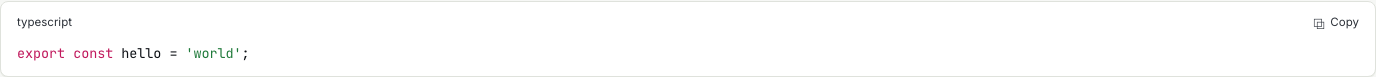
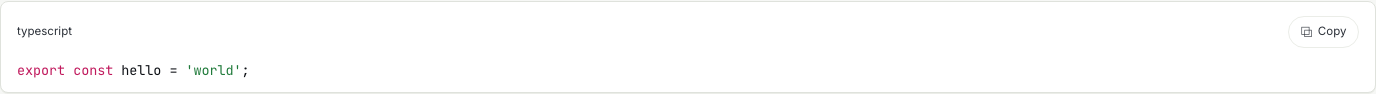
fix: keep code block controls aligned

Changed region(s): [[0.0, 0.6234, 0.1875, 0.8052], [0.9375, 0.2338, 1.0, 0.3896], [0.0, 0.2338, 0.0625, 0.3896]]

diff --git a/packages/core/css/markdown.css b/packages/core/css/markdown.css
@@ -250,7 +250,6 @@
 .markdown .code-block__overlay {
   display: flex;
   align-items: center;
-  justify-content: space-between;
   gap: 0.75rem;
   width: 100%;
   margin-bottom: 0.75rem;
@@ -266,6 +265,8 @@
 }
 
 .markdown .code-block__label {
+  flex: 1 1 auto;
+  min-width: 0;
   color: var(--muted);
   text-transform: none;
   letter-spacing: normal;
@@ -277,16 +278,19 @@
 }
 
 .markdown .code-block__copy {
+  margin-left: auto;
   display: inline-flex;
   align-items: center;
   gap: 0.35rem;
-  padding: 0;
-  border: 0;
-  background: transparent;
+  min-height: 2rem;
+  padding: 0.38rem 0.72rem;
+  border: 1px solid var(--border-soft);
+  border-radius: 999px;
+  background: color-mix(in oklab, var(--surface) 92%, transparent);
   color: var(--text-soft);
   cursor: pointer;
   white-space: nowrap;
-  transition: color 120ms ease;
+  transition: color 120ms ease, border-color 120ms ease, background 120ms ease;
 }
 
 .markdown .code-block__copy-icon {
@@ -307,6 +311,8 @@
 .markdown .code-block__copy:hover,
 .markdown .code-block__copy:focus-visible {
   color: var(--text);
+  border-color: var(--accent);
+  background: color-mix(in oklab, var(--accent) 12%, var(--surface));
 }
 
 .markdown .code-block__copy:focus-visible {